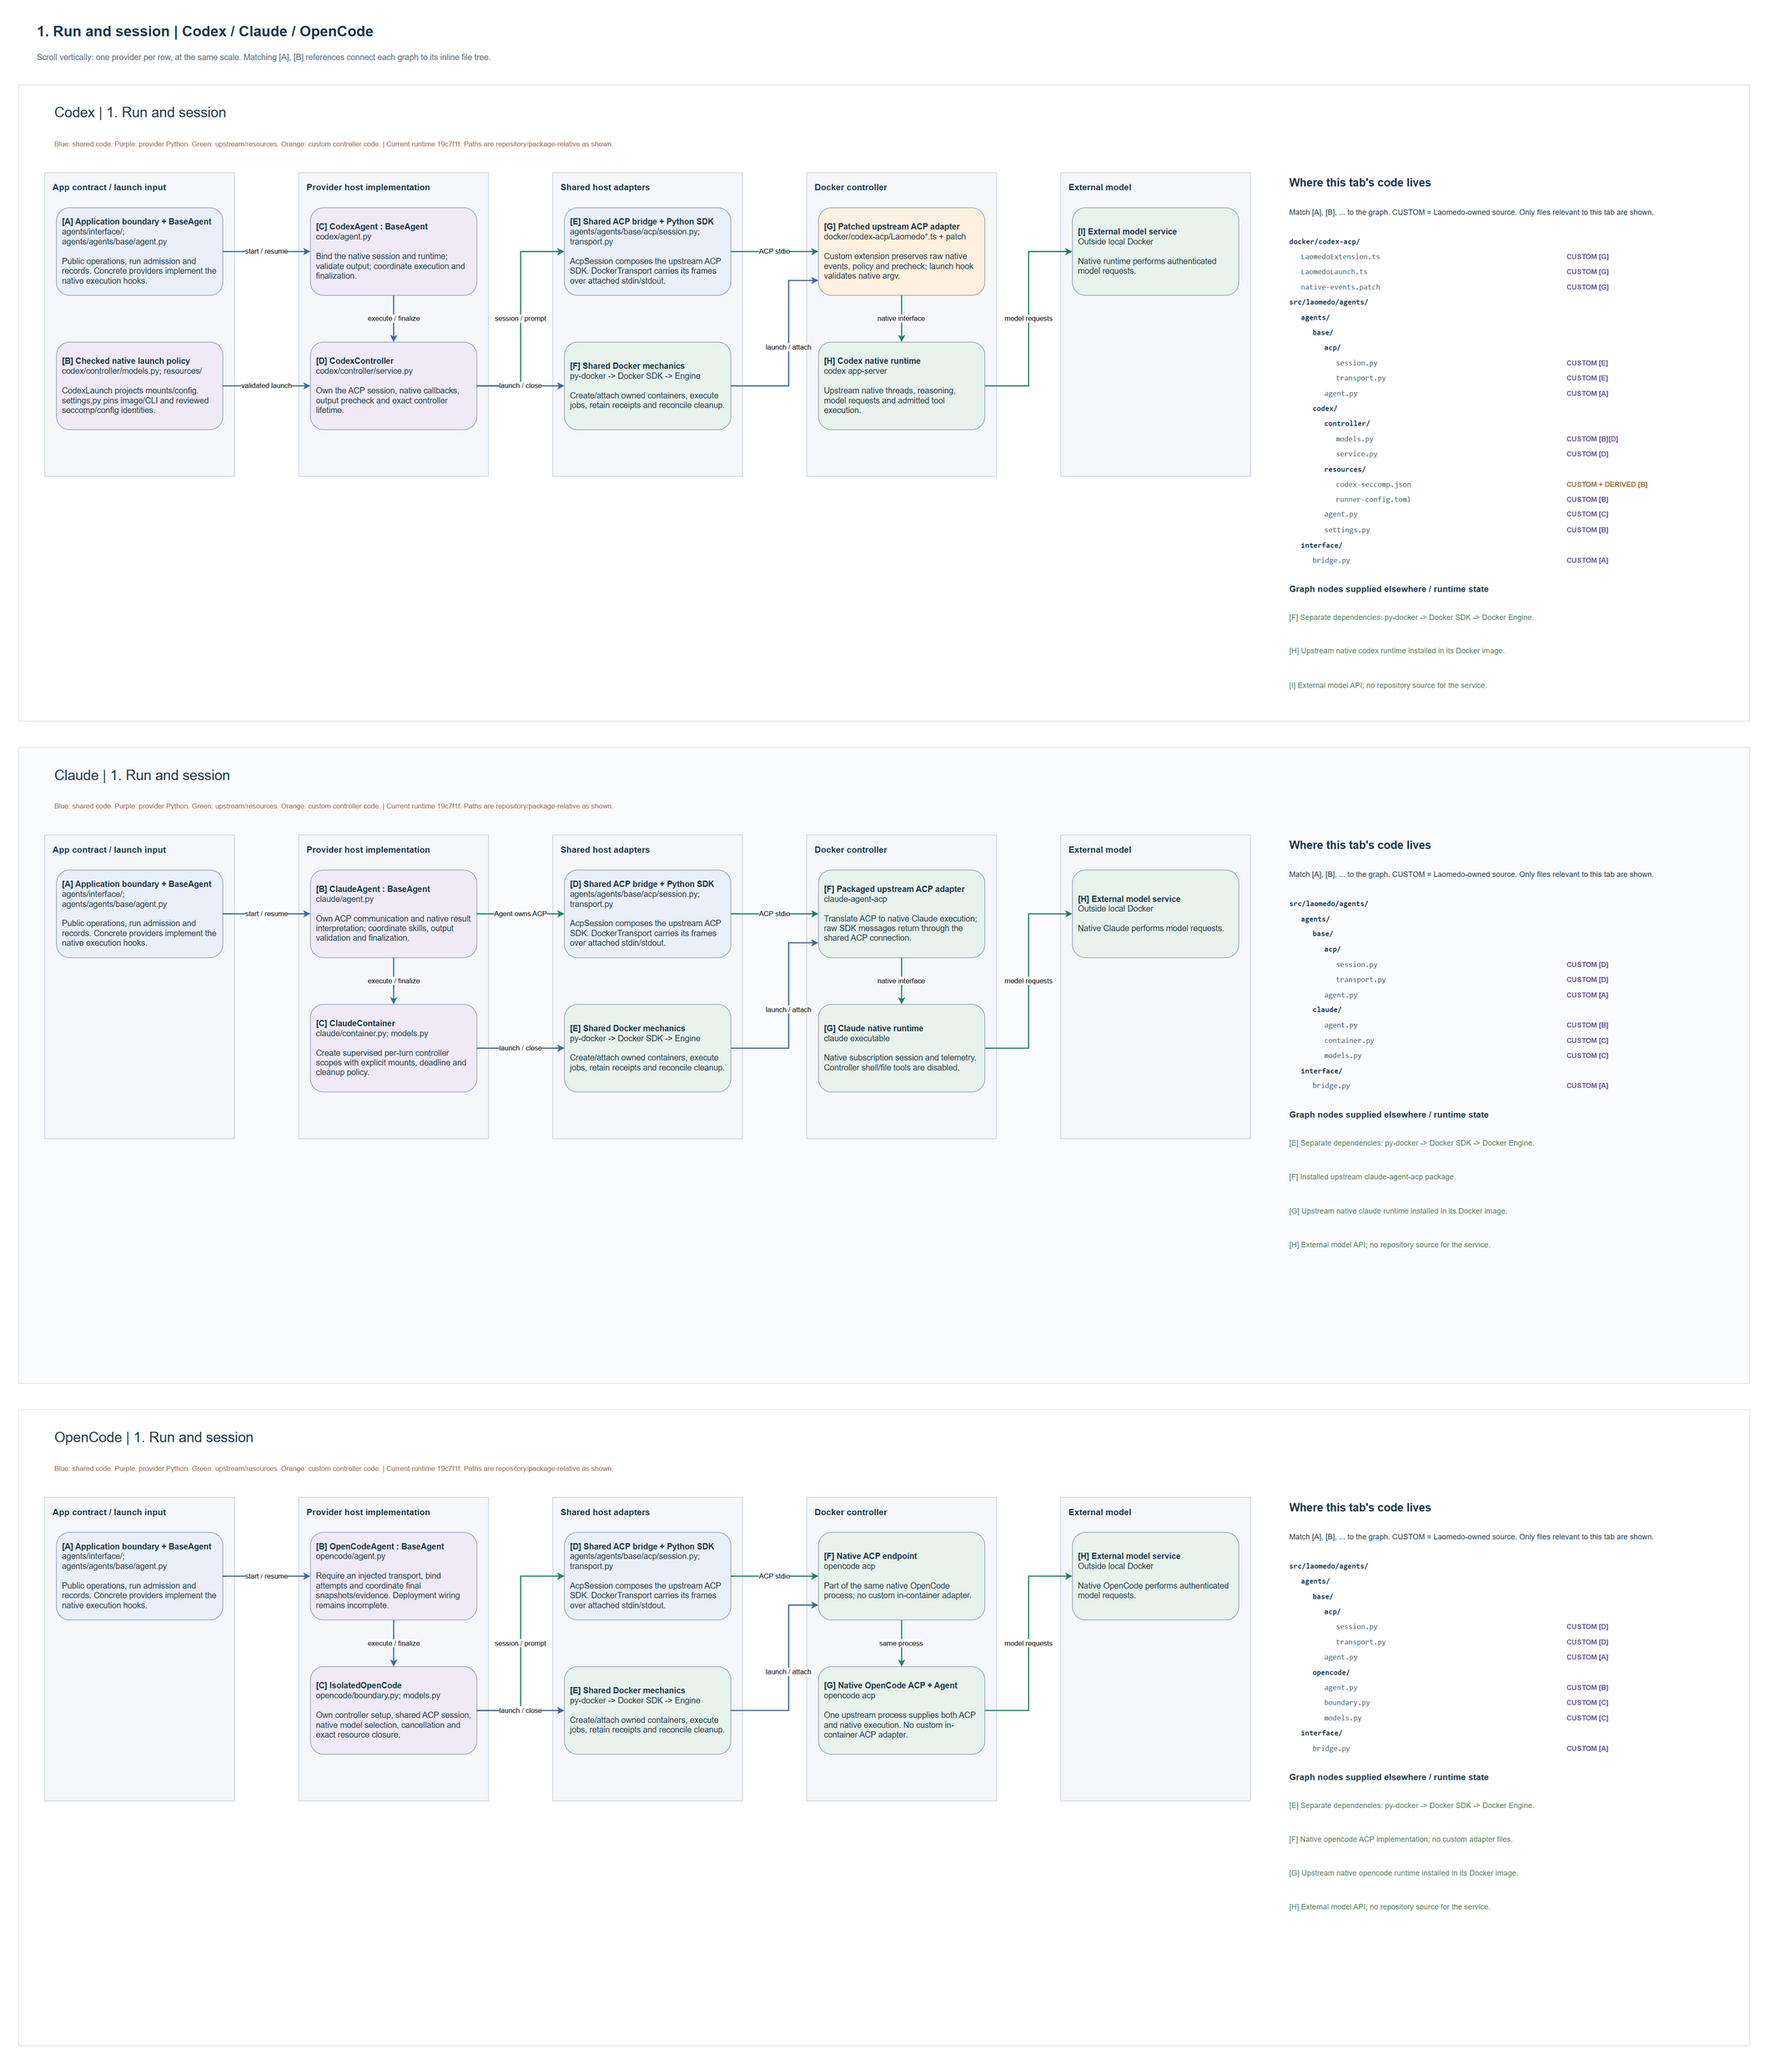
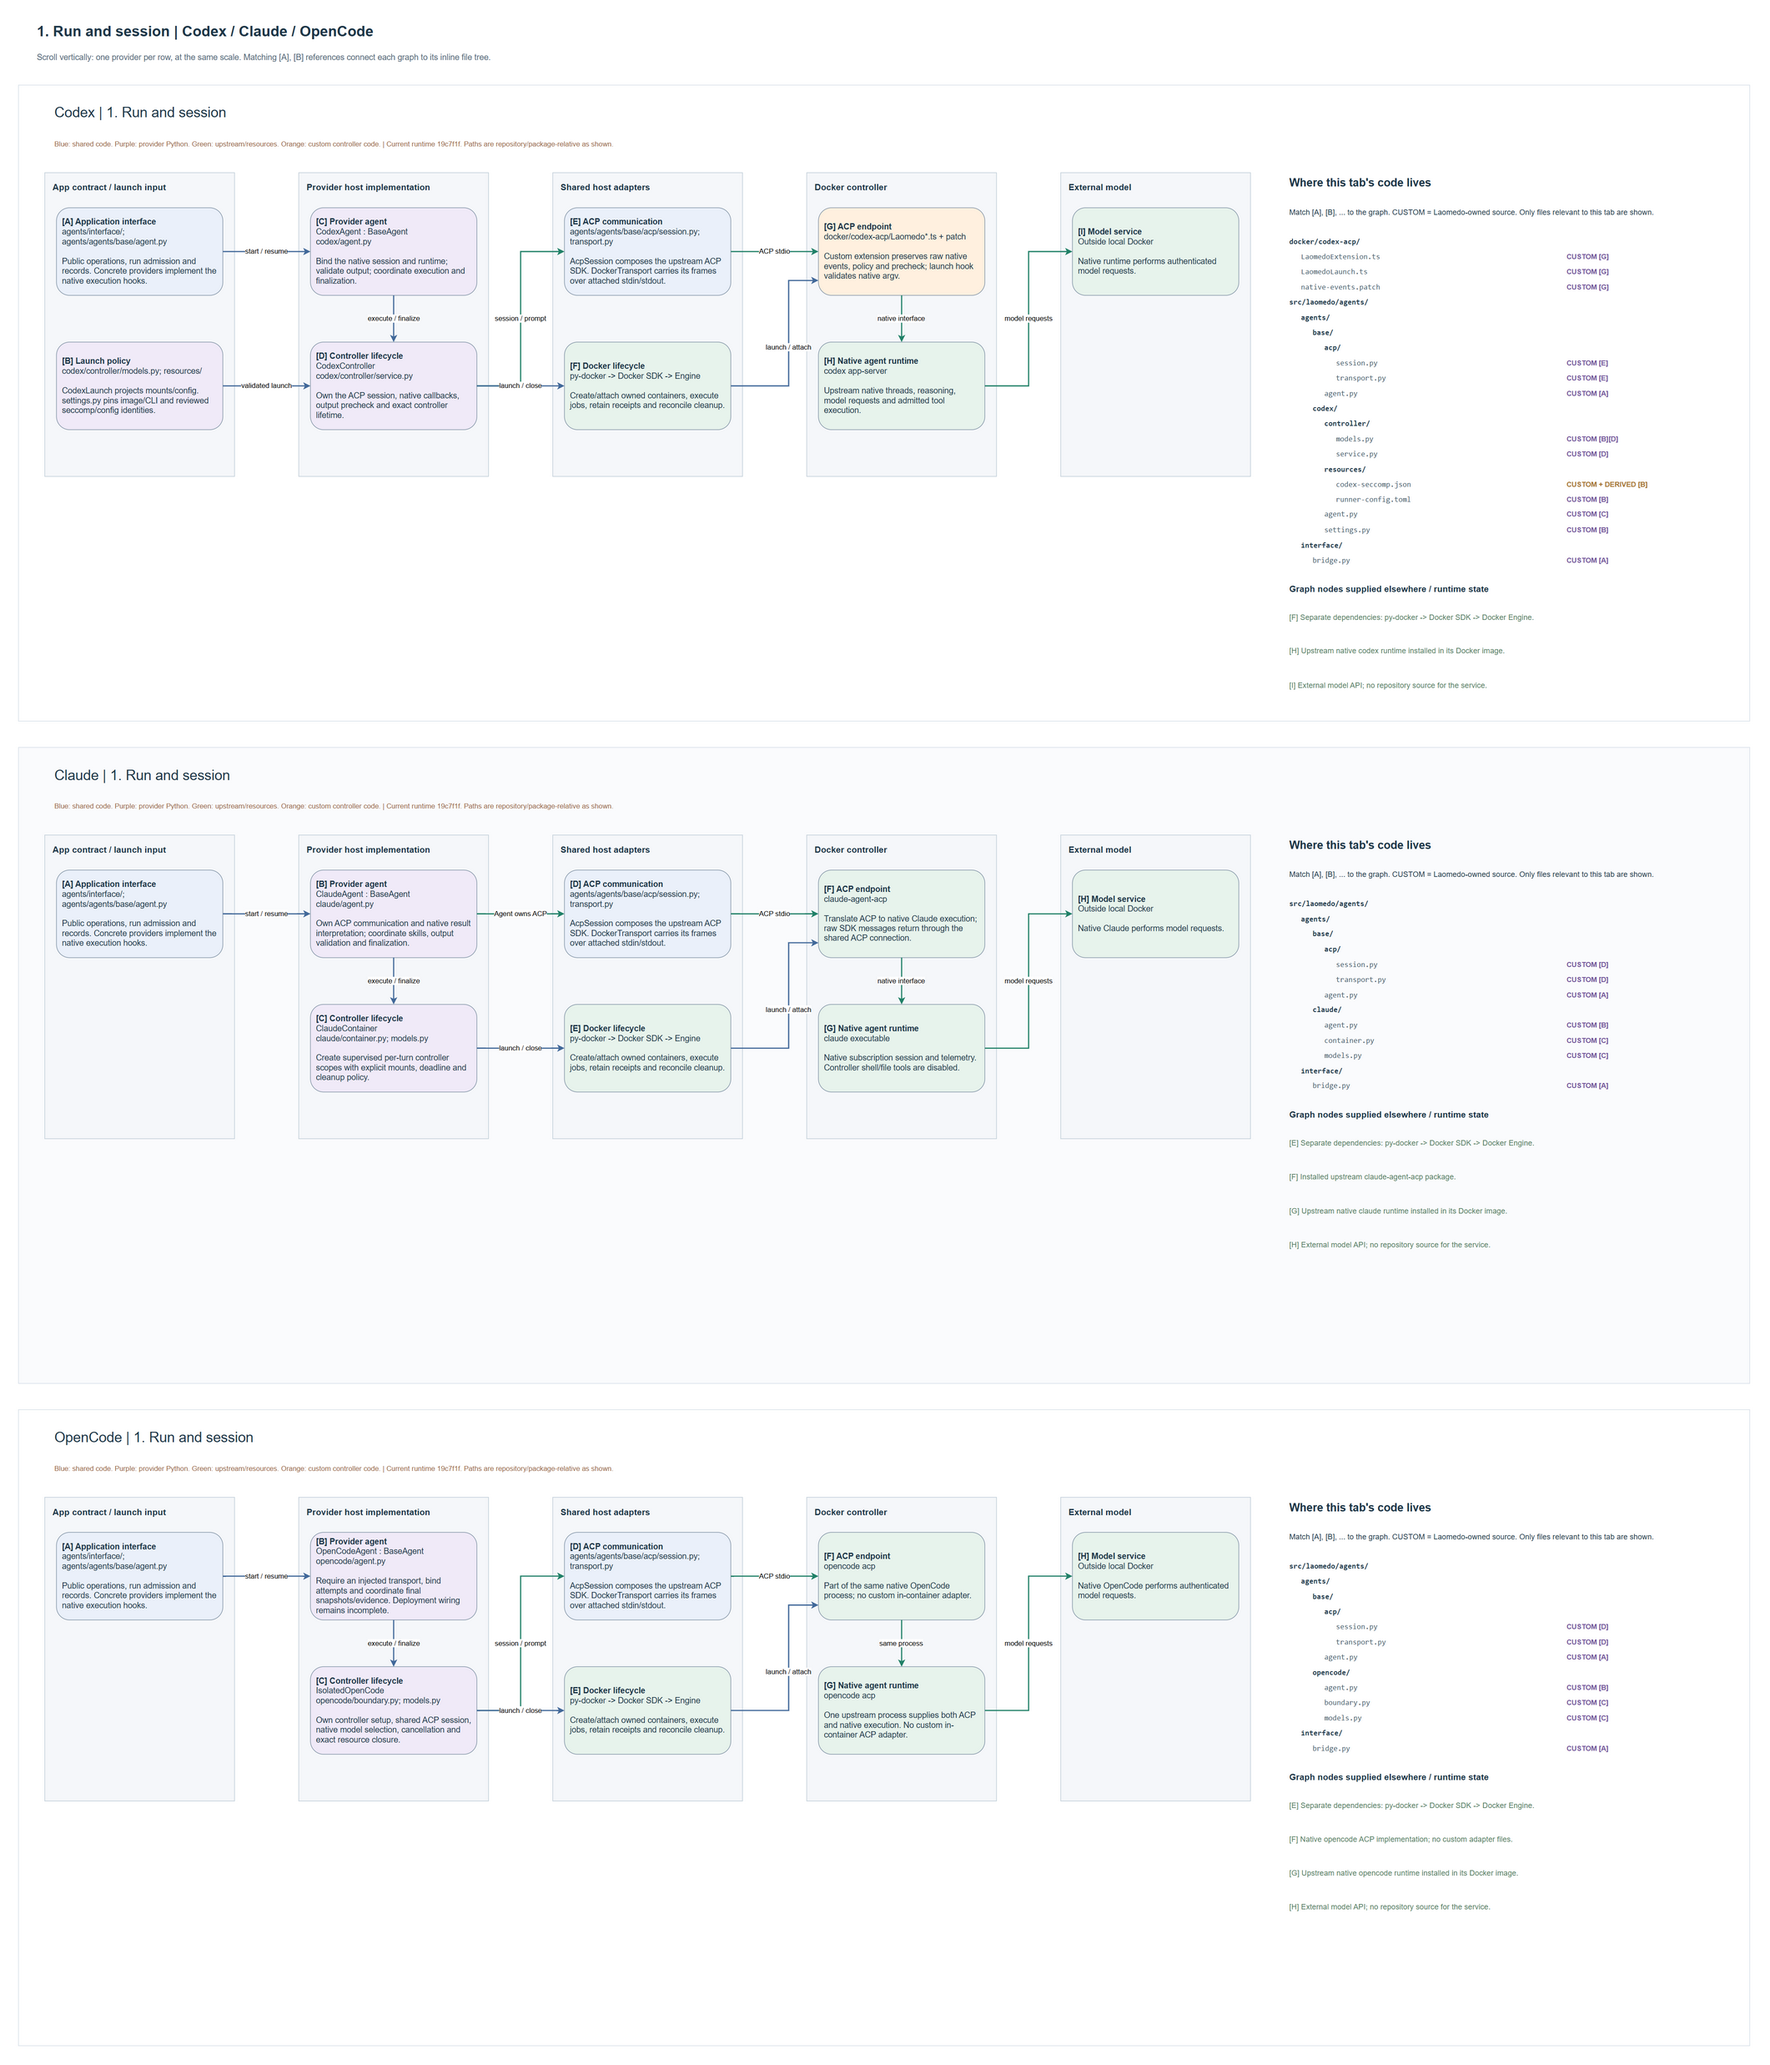
docs: align provider node titles by architectural role

diff --git a/docs/features/agents/assets/provider-interactions/README.md b/docs/features/agents/assets/provider-interactions/README.md
@@ -10,7 +10,10 @@ its relevant file tree beside each provider's graph.
 | Tools and credentials | [PNG](comparison-tools-auth.png) |
 | Evidence to Activity | [PNG](comparison-evidence.png) |
 
-Scroll vertically to compare providers within a concern. Matching `[A]`, `[B]`,
+Scroll vertically to compare providers within a concern. Card titles name the
+architectural role consistently; concrete classes, protocols and event formats
+appear underneath. Letter references are local to each provider row, not parity
+identifiers: absent or additional components retain their actual roles. Matching `[A]`, `[B]`,
 etc. references connect graph nodes to their defining files; files shared by
 nodes show multiple references. Arrows identify each component's caller, native
 interface, credential consumer or evidence consumer.
